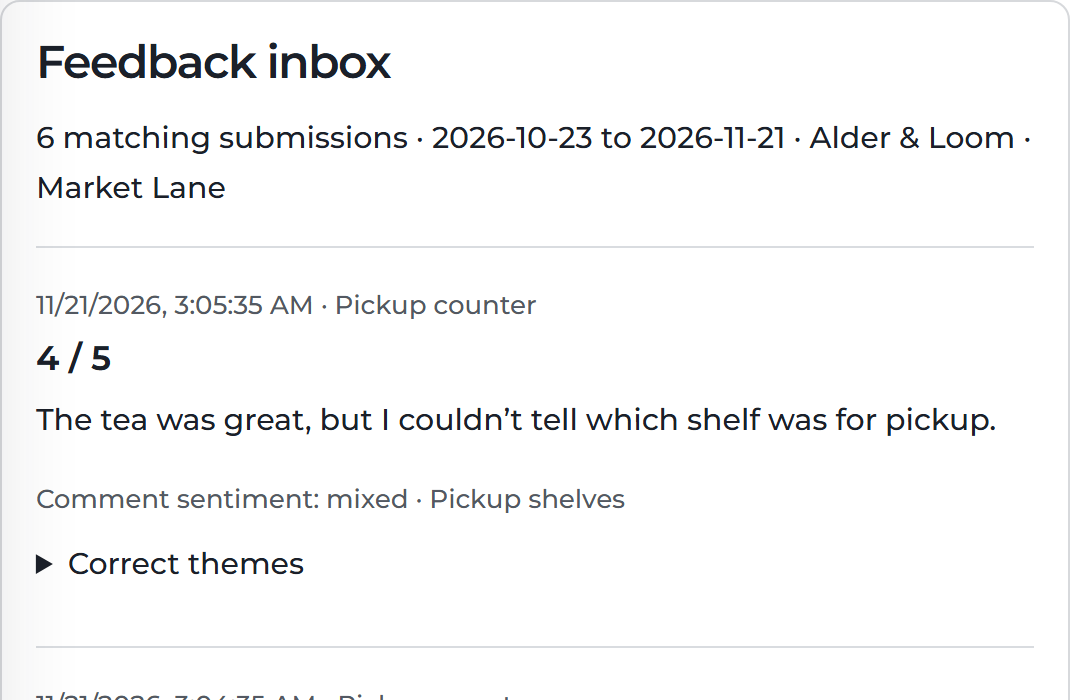
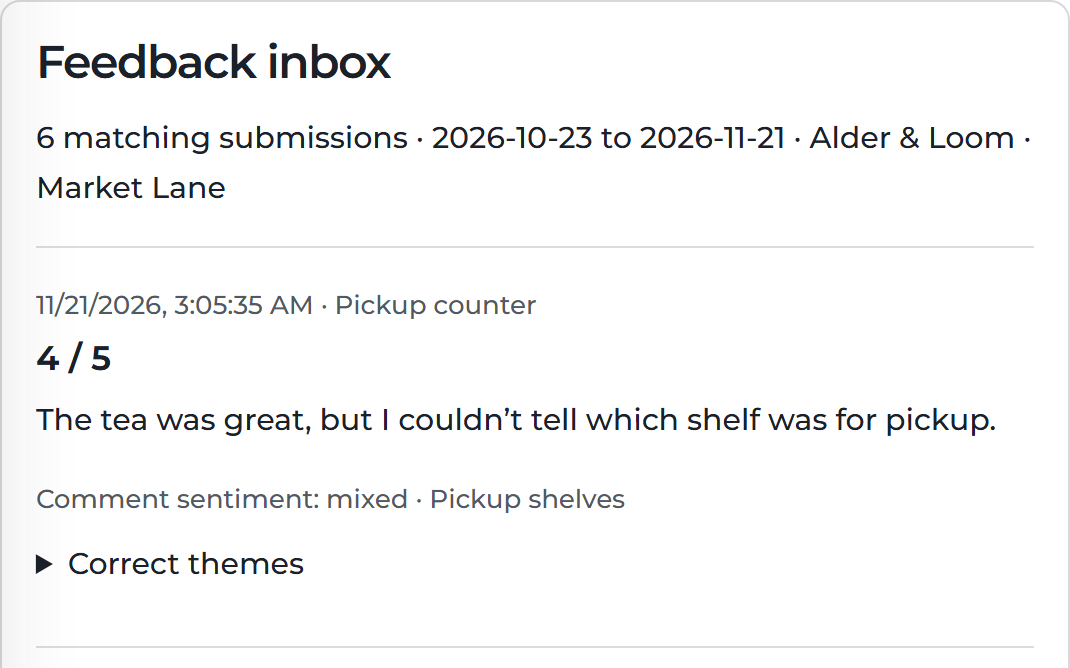
Use the Tap inbox for homepage sharing and label the demo capture

diff --git a/app/page.tsx b/app/page.tsx
@@ -11,12 +11,24 @@ import { createPageMetadata, SITE_TITLE, SITE_URL } from '@/lib/seo'
 
 const description = 'Customers tap or scan a placard to leave a private rating and optional comment. See recurring issues at each location and track the fix in a Replova Playbook.'
 
-export const metadata: Metadata = createPageMetadata({
+const pageMetadata = createPageMetadata({
   title: SITE_TITLE,
   description,
   path: '/',
   absoluteTitle: true,
 })
+
+const shareImage = {
+  url: '/tap-showcase/social.png',
+  alt: 'Replova Tap with a sample Market Lane feedback inbox',
+  width: 1200,
+  height: 630,
+}
+export const metadata: Metadata = {
+  ...pageMetadata,
+  openGraph: { ...pageMetadata.openGraph, images: [shareImage] },
+  twitter: { ...pageMetadata.twitter, images: [shareImage] },
+}
 
 const structuredData = {
   '@context': 'https://schema.org',
@@ -237,6 +249,7 @@ export default function Home() {
                   />
                 </picture>
               </div>
+              <small className="cta-sample">Sample data · Market Lane</small>
             </div>
           </div>
         </section>

diff --git a/components/marketing/ProductShowcase.tsx b/components/marketing/ProductShowcase.tsx
@@ -20,7 +20,7 @@ const FEATURES = [
     imageAlt: 'Sample Market Lane customer form with a 4 out of 5 rating and an optional comment about the pickup shelves.',
   },
   {
-    id: 'inbox', width: 1070, height: 700, mobileWidth: 648, mobileHeight: 820,
+    id: 'inbox', width: 1070, height: 668, mobileWidth: 648, mobileHeight: 820,
     label: 'Feedback inbox', Icon: IconAlert,
     headlineLines: ['Read the visit', 'in context.'],
     description: 'See the original 4 out of 5 beside the customer’s words. They liked the tea and had trouble finding their order. Their comment sentiment is mixed.',

diff --git a/app/tap-home.css b/app/tap-home.css
@@ -43,6 +43,15 @@
   align-content: center;
   padding: 20px;
 }
+.tap-home .cta-sample {
+  justify-self: start;
+  margin-top: 8px;
+  padding: 4px 7px;
+  border-radius: 5px;
+  background: #343330;
+  color: white;
+  font-size: 10px;
+}
 .tap-home .final-cta-visual::after { content: none; }
 .tap-home .final-cta-preview {
   position: relative;
